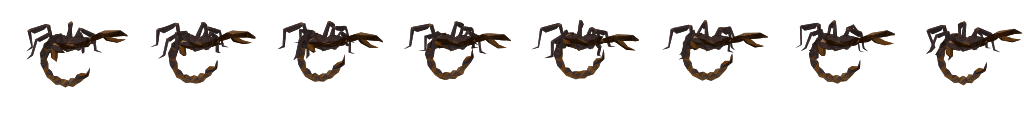
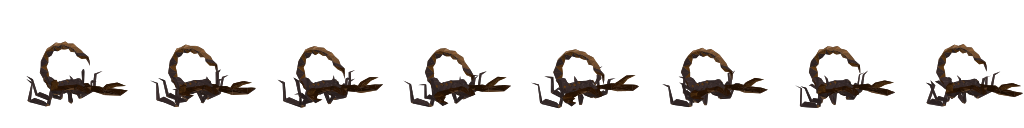
fix(enemies): face travel direction + swap goblin/spider models, un-flip scorpion
- Animated clips are baked facing left; flip to face the rightward travel
  direction so the walk reads forward instead of moonwalking (drawEnemies +
  drawDeaths).
- goblin: NPC 655 -> 3029 (classic green Lumbridge goblin), same walk/hurt/death
  anim block so playback is unchanged.
- spider: NPC 2478 (small house spider) -> 626 (Fever spider, the big-bodied
  giant-spider model); now has a real death-collapse (anim 5321).
- scorpion: render-osrs-npc-anims.mjs gains a per-target `flipY` flag; the
  scorpion model is authored the other way up and came out upside down under the
  default Y-negation, so flipY keeps it upright (stinger arched over the back).
- Regenerate enemy-anims.data.ts (32 enemies, 86 clips).

diff --git a/lib/game/data/enemy-anims.data.ts b/lib/game/data/enemy-anims.data.ts
@@ -1,5 +1,5 @@
 // AUTO-GENERATED by scripts/render-osrs-npc-anims.mjs + tmp generator.
-// Do not edit by hand — re-bake and regenerate. 32 enemies, 85 clips.
+// Do not edit by hand — re-bake and regenerate. 32 enemies, 86 clips.
 // Per-enemy animation sheets baked from the OSRS cache (walk loop + optional
 // hurt flinch + death collapse). See lib/game/data/enemy-anims.ts for the
 // playback helpers and the EnemyAnimSet contract.
@@ -43,8 +43,9 @@ export const ENEMY_ANIMS: Record<string, EnemyAnimSet> = {
   spider: {
     frameW: 128, frameH: 128,
     clips: {
-      walk: { url: `${B}/spider/walk.png`, frames: 10, frameMs: [40, 40, 40, 40, 40, 40, 40, 40, 40, 40], loop: true },
-      hurt: { url: `${B}/spider/hurt.png`, frames: 15, frameMs: [100, 100, 100, 80, 80, 100, 60, 40, 40, 40, 40, 40, 40, 40, 40], loop: false },
+      walk: { url: `${B}/spider/walk.png`, frames: 10, frameMs: [60, 60, 60, 60, 60, 60, 60, 60, 60, 60], loop: true },
+      hurt: { url: `${B}/spider/hurt.png`, frames: 12, frameMs: [80, 80, 80, 80, 80, 60, 60, 60, 60, 60, 80, 80], loop: false },
+      death: { url: `${B}/spider/death.png`, frames: 22, frameMs: [60, 60, 60, 60, 60, 60, 60, 60, 60, 60, 60, 60, 60, 80, 80, 80, 120, 200, 80, 80, 80, 400], loop: false },
     },
   },
   skeleton: {

diff --git a/lib/game/core/renderer.ts b/lib/game/core/renderer.ts
@@ -478,7 +478,7 @@ export class GameRenderer {
         ctx.save();
         ctx.globalAlpha = Math.min(1, t / 0.25); // hold, then fade in the last 25%
         ctx.translate(d.x, d.y);
-        if (d.movingLeft) ctx.scale(-1, 1);
+        if (!d.movingLeft) ctx.scale(-1, 1); // face travel direction (see drawEnemies)
         ctx.drawImage(img, fi * set.frameW, 0, set.frameW, set.frameH, -ds / 2, -ds / 2, ds, ds);
         ctx.restore();
         continue;
@@ -721,7 +721,9 @@ export class GameRenderer {
         const ds = size * 1.32;
         ctx.save();
         ctx.translate(e.x + shx, e.y + shy);
-        if (movingLeft) ctx.scale(-1, 1);
+        // Clips are baked facing left; flip to face the travel direction so the
+        // walk reads forward (enemies move rightward) instead of moonwalking.
+        if (!movingLeft) ctx.scale(-1, 1);
         ctx.drawImage(img, fi * fw, 0, fw, fh, -ds / 2, -ds / 2, ds, ds);
         if (flash > 0) {
           ctx.globalCompositeOperation = 'source-atop';
